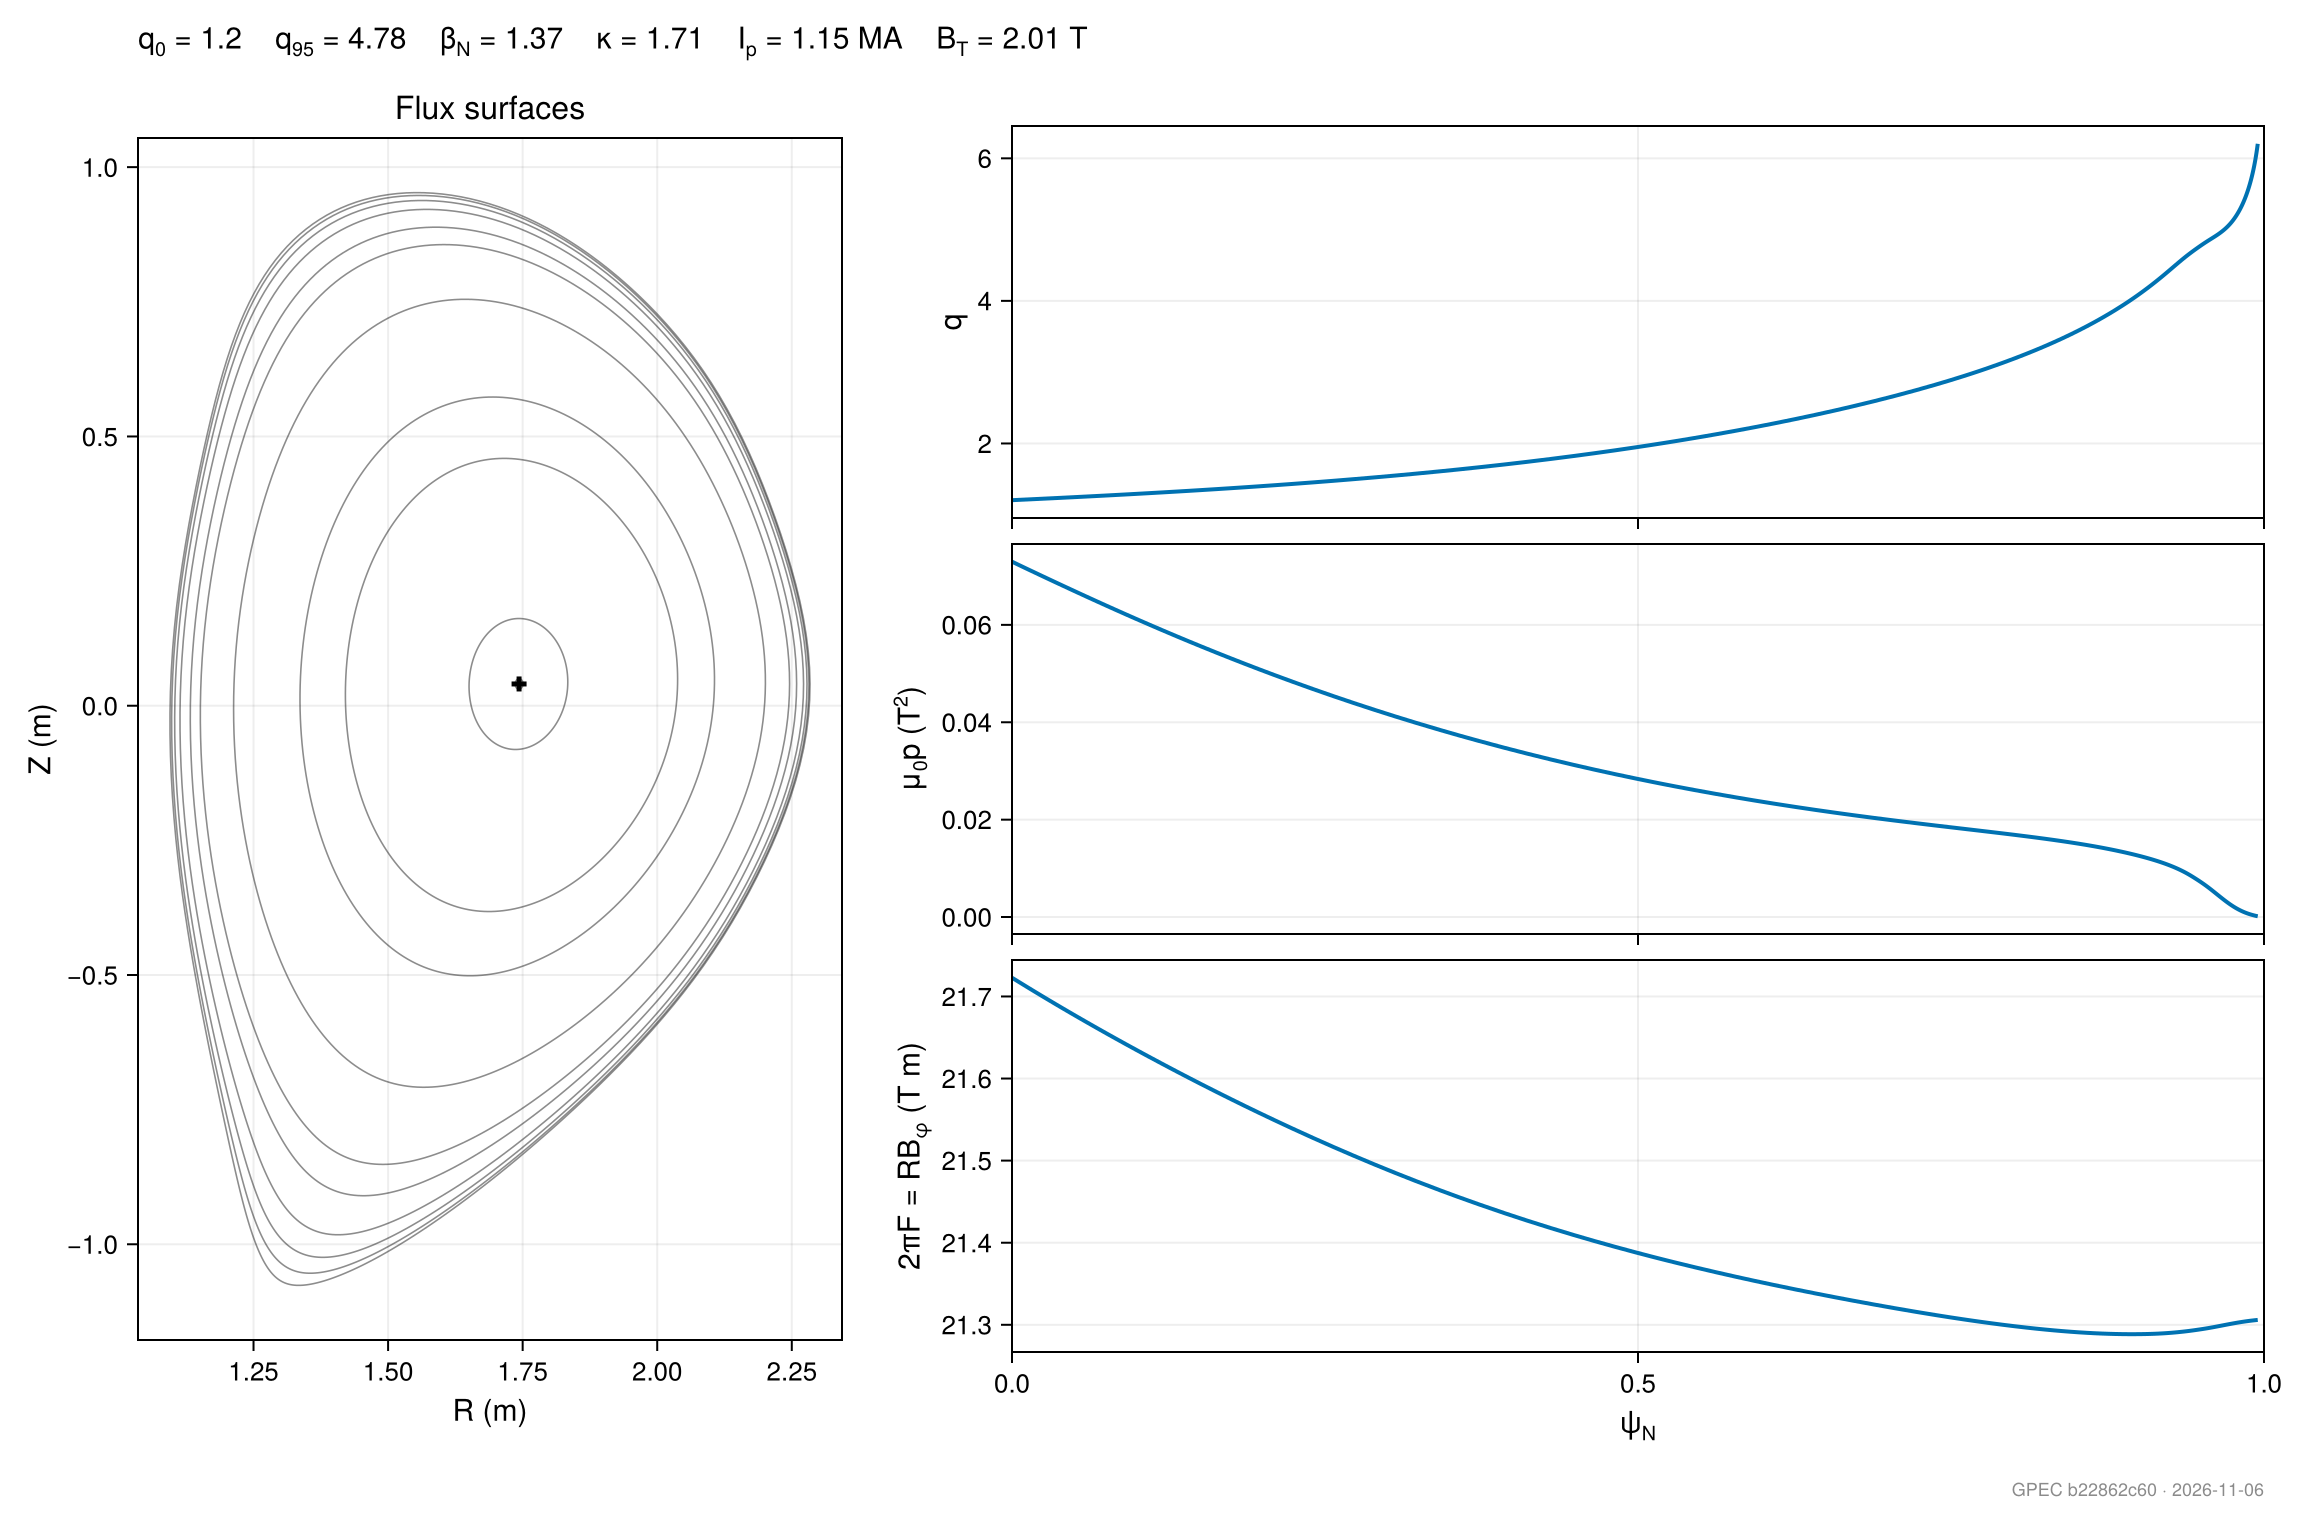
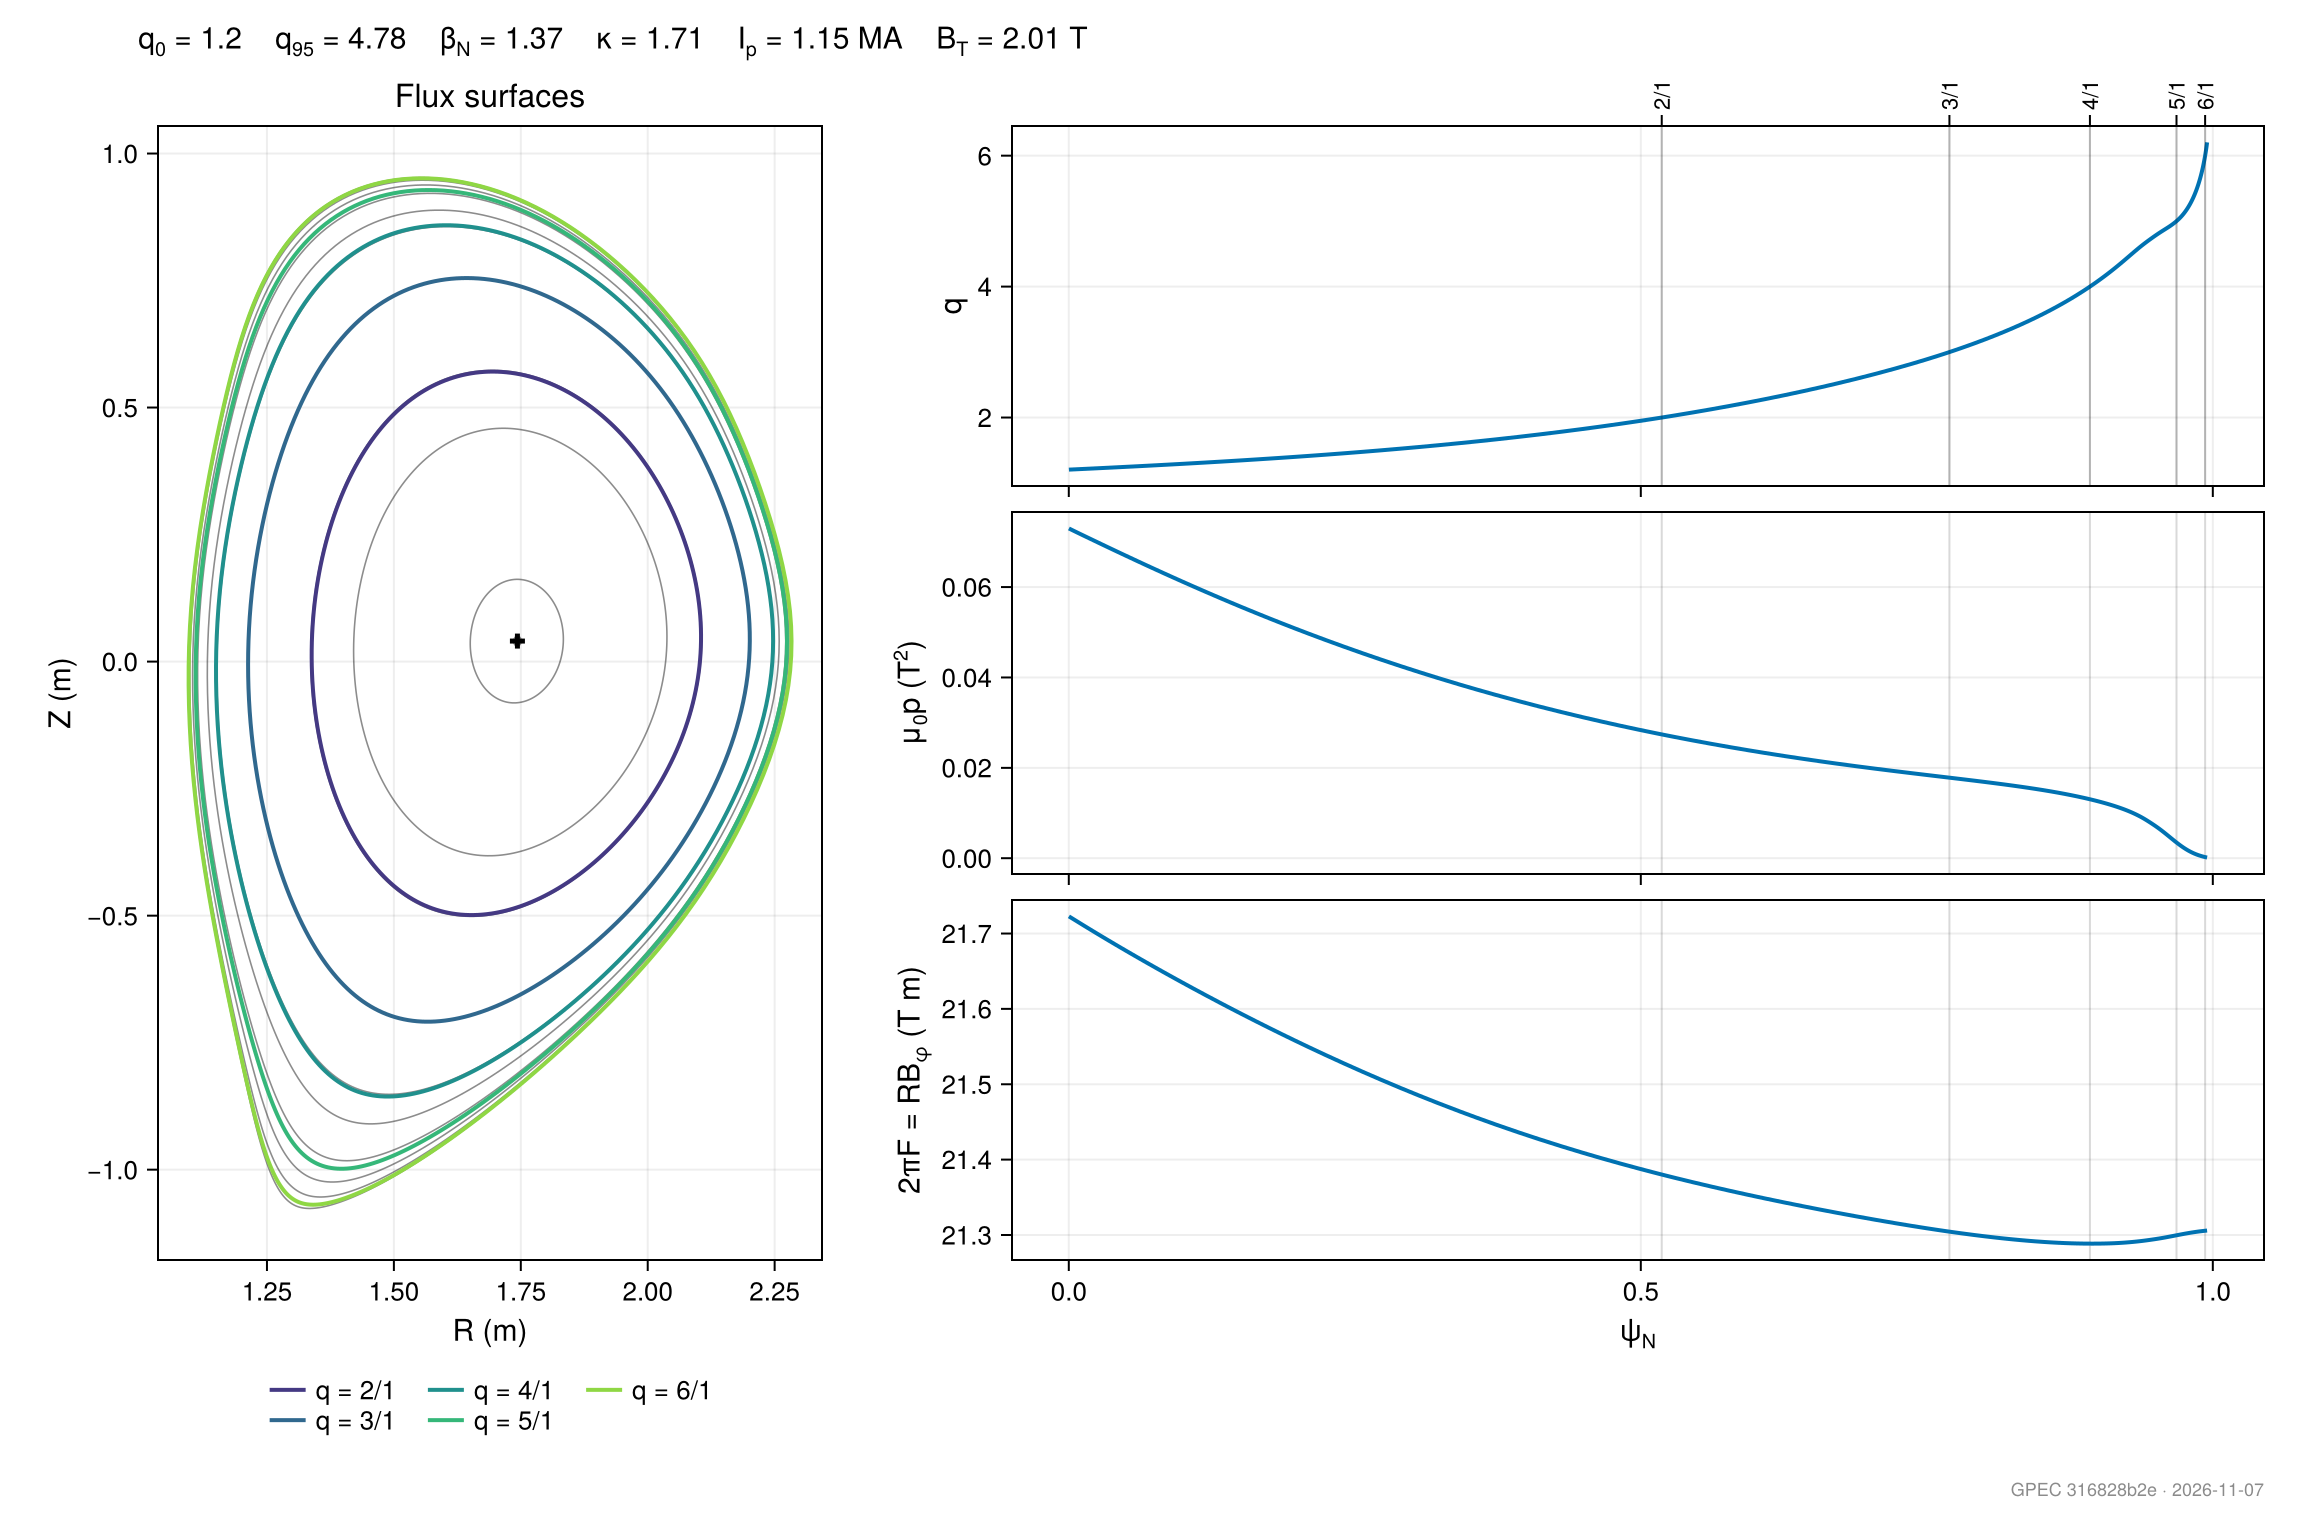
Analysis - DOCS - Regenerate the Analysis highlights with the rational surfaces on the equilibrium summary

diff --git a/docs/src/analysis.md b/docs/src/analysis.md
@@ -27,7 +27,7 @@ Every plot returns a Makie `Figure`, and `save_path` saves it with the loaded ba
 
 The summary figures of a DIII-D-like run (`examples/DIIID-like_ideal_example`):
 
-![Equilibrium summary: flux surfaces and the q, μ₀p and 2πF profiles](figures/analysis/equilibrium_summary.png)
+![Equilibrium summary: flux surfaces and the q, μ₀p and 2πF profiles, with the n = 1 rational surfaces](figures/analysis/equilibrium_summary.png)
 
 ![Stability summary: critical determinant, free-boundary energies and the least stable eigenmodes](figures/analysis/ffs_summary.png)
 
